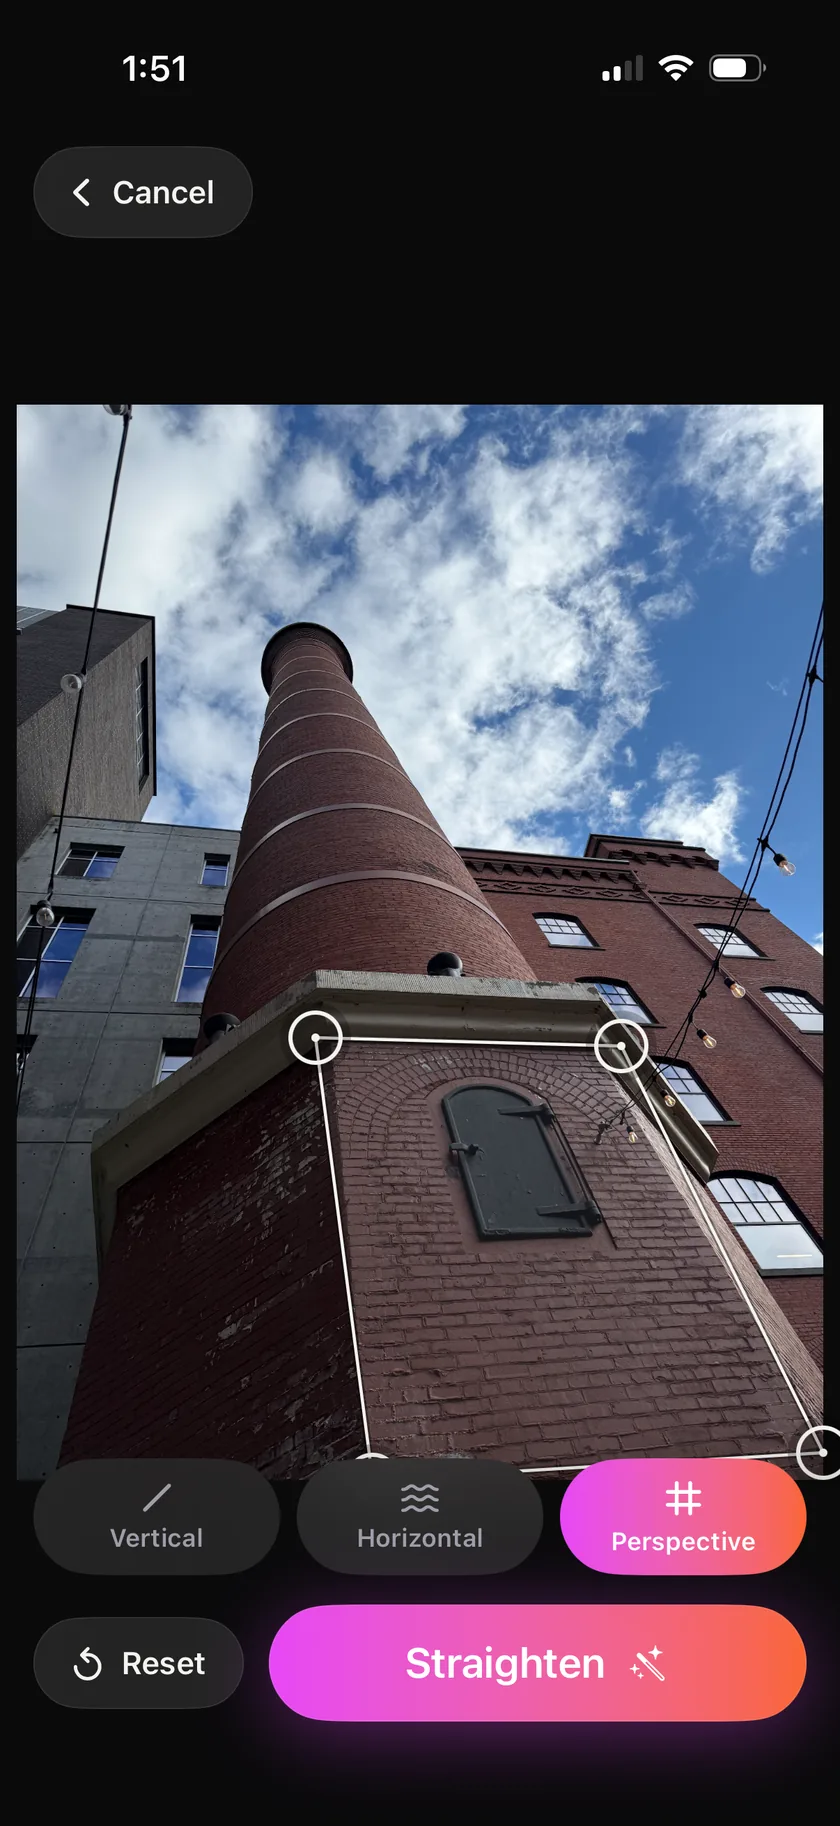
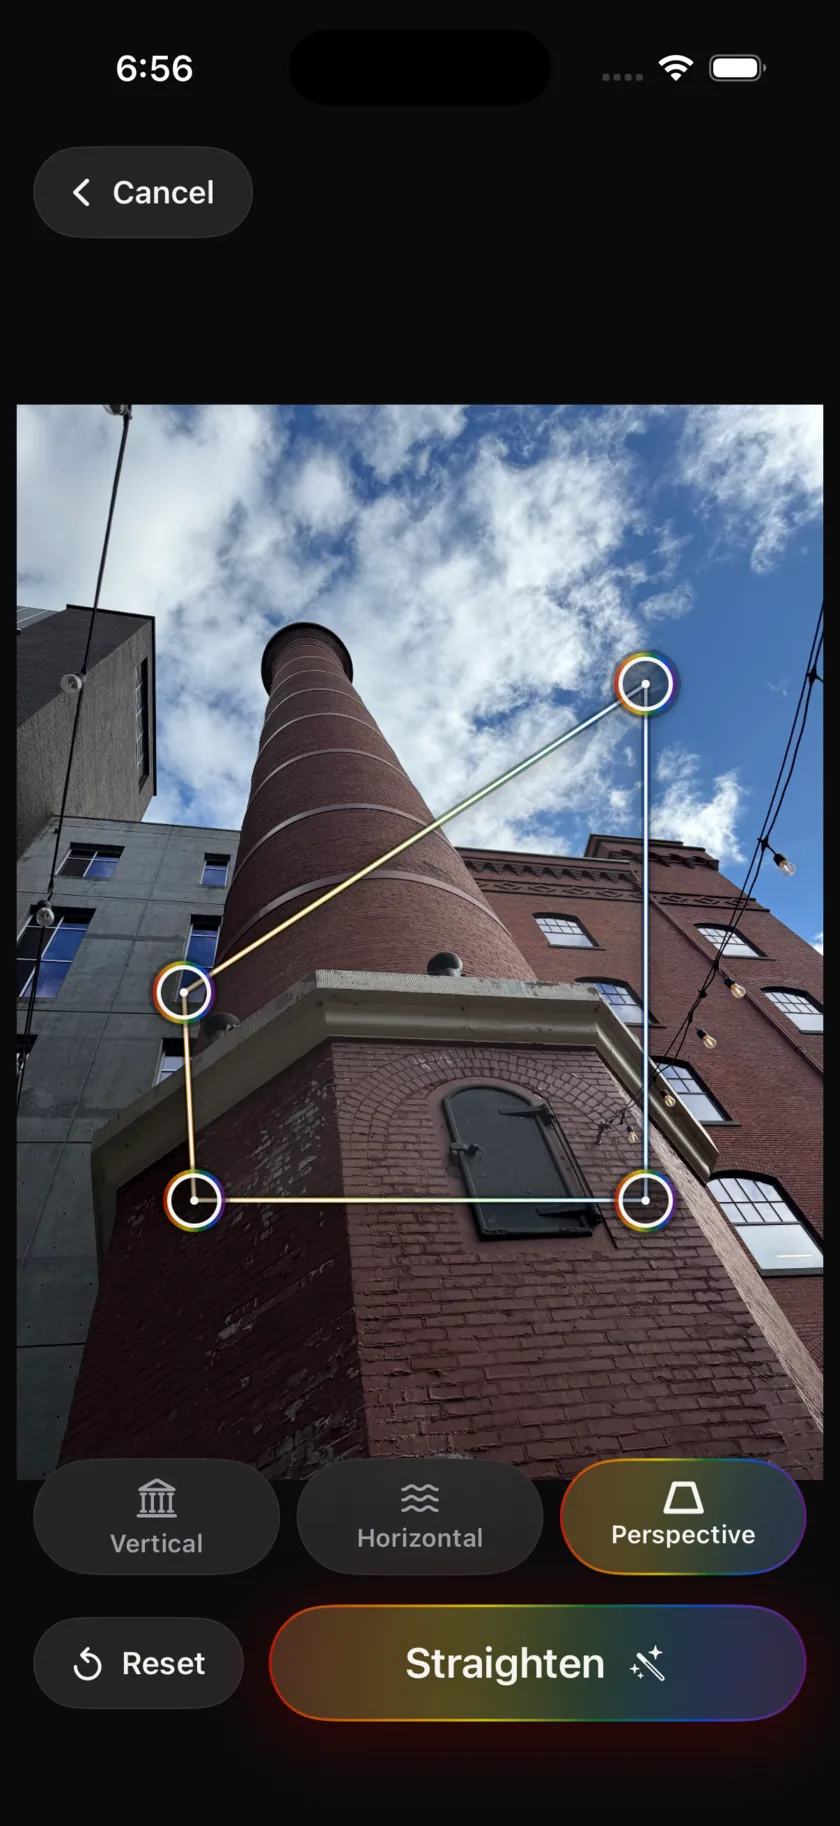
Recapture StraightPic device frames from the current rainbow build
The old editor/result screenshots were from before the app's UI shifted
to a full rainbow gradient identity (icon, tool pills, buttons, handles).
New captures come from a fresh simulator run of the real app against the
same Tower.jpg reference, so the room's evidence matches what's actually
shipping.

diff --git a/index.html b/index.html
@@ -447,7 +447,7 @@
               <img src="assets/img/ui-straightpic-editor-420.webp"
                    srcset="assets/img/ui-straightpic-editor-420.webp 420w, assets/img/ui-straightpic-editor-640.webp 640w, assets/img/ui-straightpic-editor-840.webp 840w"
                    sizes="(max-width: 900px) 42vw, 20vw" width="840" height="1826" loading="lazy"
-                   alt="The StraightPic editor on an iPhone: a photograph of a leaning brick smokestack with four draggable handles marking a rectangle on the brick wall, a row of Vertical, Horizontal and Perspective tools, and a Straighten button.">
+                   alt="The StraightPic editor on an iPhone: a photograph of a leaning brick smokestack with four rainbow-ringed handles marking a quadrilateral on the brick wall, a row of Vertical, Horizontal and Perspective tools with the active tab in a rainbow gradient, and a rainbow-gradient Straighten button.">
             </div>
             <figcaption class="caption"><b>Set the line</b>Place the polygon on a clear distortion.</figcaption>
           </figure>
@@ -456,7 +456,7 @@
               <img src="assets/img/ui-straightpic-result-420.webp"
                    srcset="assets/img/ui-straightpic-result-420.webp 420w, assets/img/ui-straightpic-result-640.webp 640w, assets/img/ui-straightpic-result-840.webp 840w"
                    sizes="(max-width: 900px) 42vw, 20vw" width="840" height="1826" loading="lazy"
-                   alt="The same photograph in StraightPic after correction: the smokestack and the buildings beside it now stand upright and square to the frame.">
+                   alt="The same photograph in StraightPic after correction: the smokestack and the buildings beside it now stand upright and square to the frame, with a rainbow-gradient Save as New Photo button below.">
             </div>
             <figcaption class="caption"><b>Snap to attention</b>Watch it straighten up right quick.</figcaption>
           </figure>

diff --git a/tools/ui-shots.py b/tools/ui-shots.py
@@ -33,7 +33,7 @@ JOBS = [
     ),
     (
         "ui-straightpic-editor",
-        APPS / "StraightPic/Reference Photos/1 (original).PNG",
+        APPS / "StraightPic/Reference Photos/3 (rainbow editor).PNG",
         None,
         (420, 640, 840),
     ),
@@ -43,7 +43,7 @@ JOBS = [
     # slider it used to carry underneath.
     (
         "ui-straightpic-result",
-        APPS / "StraightPic/Reference Photos/2 (good).PNG",
+        APPS / "StraightPic/Reference Photos/4 (rainbow result).PNG",
         None,
         (420, 640, 840),
     ),
